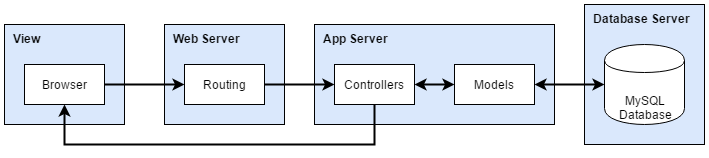
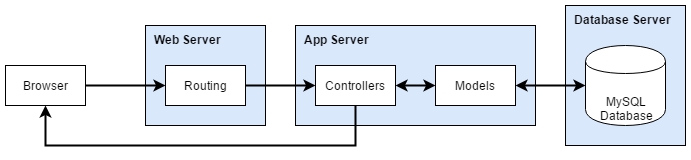
update app architect, upload 'price' set default 10000.

Changed region(s): [[0.0, 0.1519, 0.7902, 0.9367], [0.8205, 0.0253, 1.0, 0.9367]]

diff --git a/resources/views/haiblade/pages/upload.blade.php b/resources/views/haiblade/pages/upload.blade.php
@@ -91,7 +91,7 @@
                                                 Giá (Tối thiểu 10.000 VNĐ)*
                                                 <button type="button" id="sugestPrice" class="btn btn-info">Giá tham khảo</button>
                                             </label>
-                                            <input type="number" id="price" name="price" min="10000" class="form-control" placeholder="Điền vào đây (Đơn vị VND)" required>
+                                            <input type="number" id="price" name="price" min="10000" class="form-control" placeholder="Điền vào đây (Đơn vị VND)" required value="10000">
                                             <div id="sugestPriceResult"></div>
                                         </div>
                                     </div>
